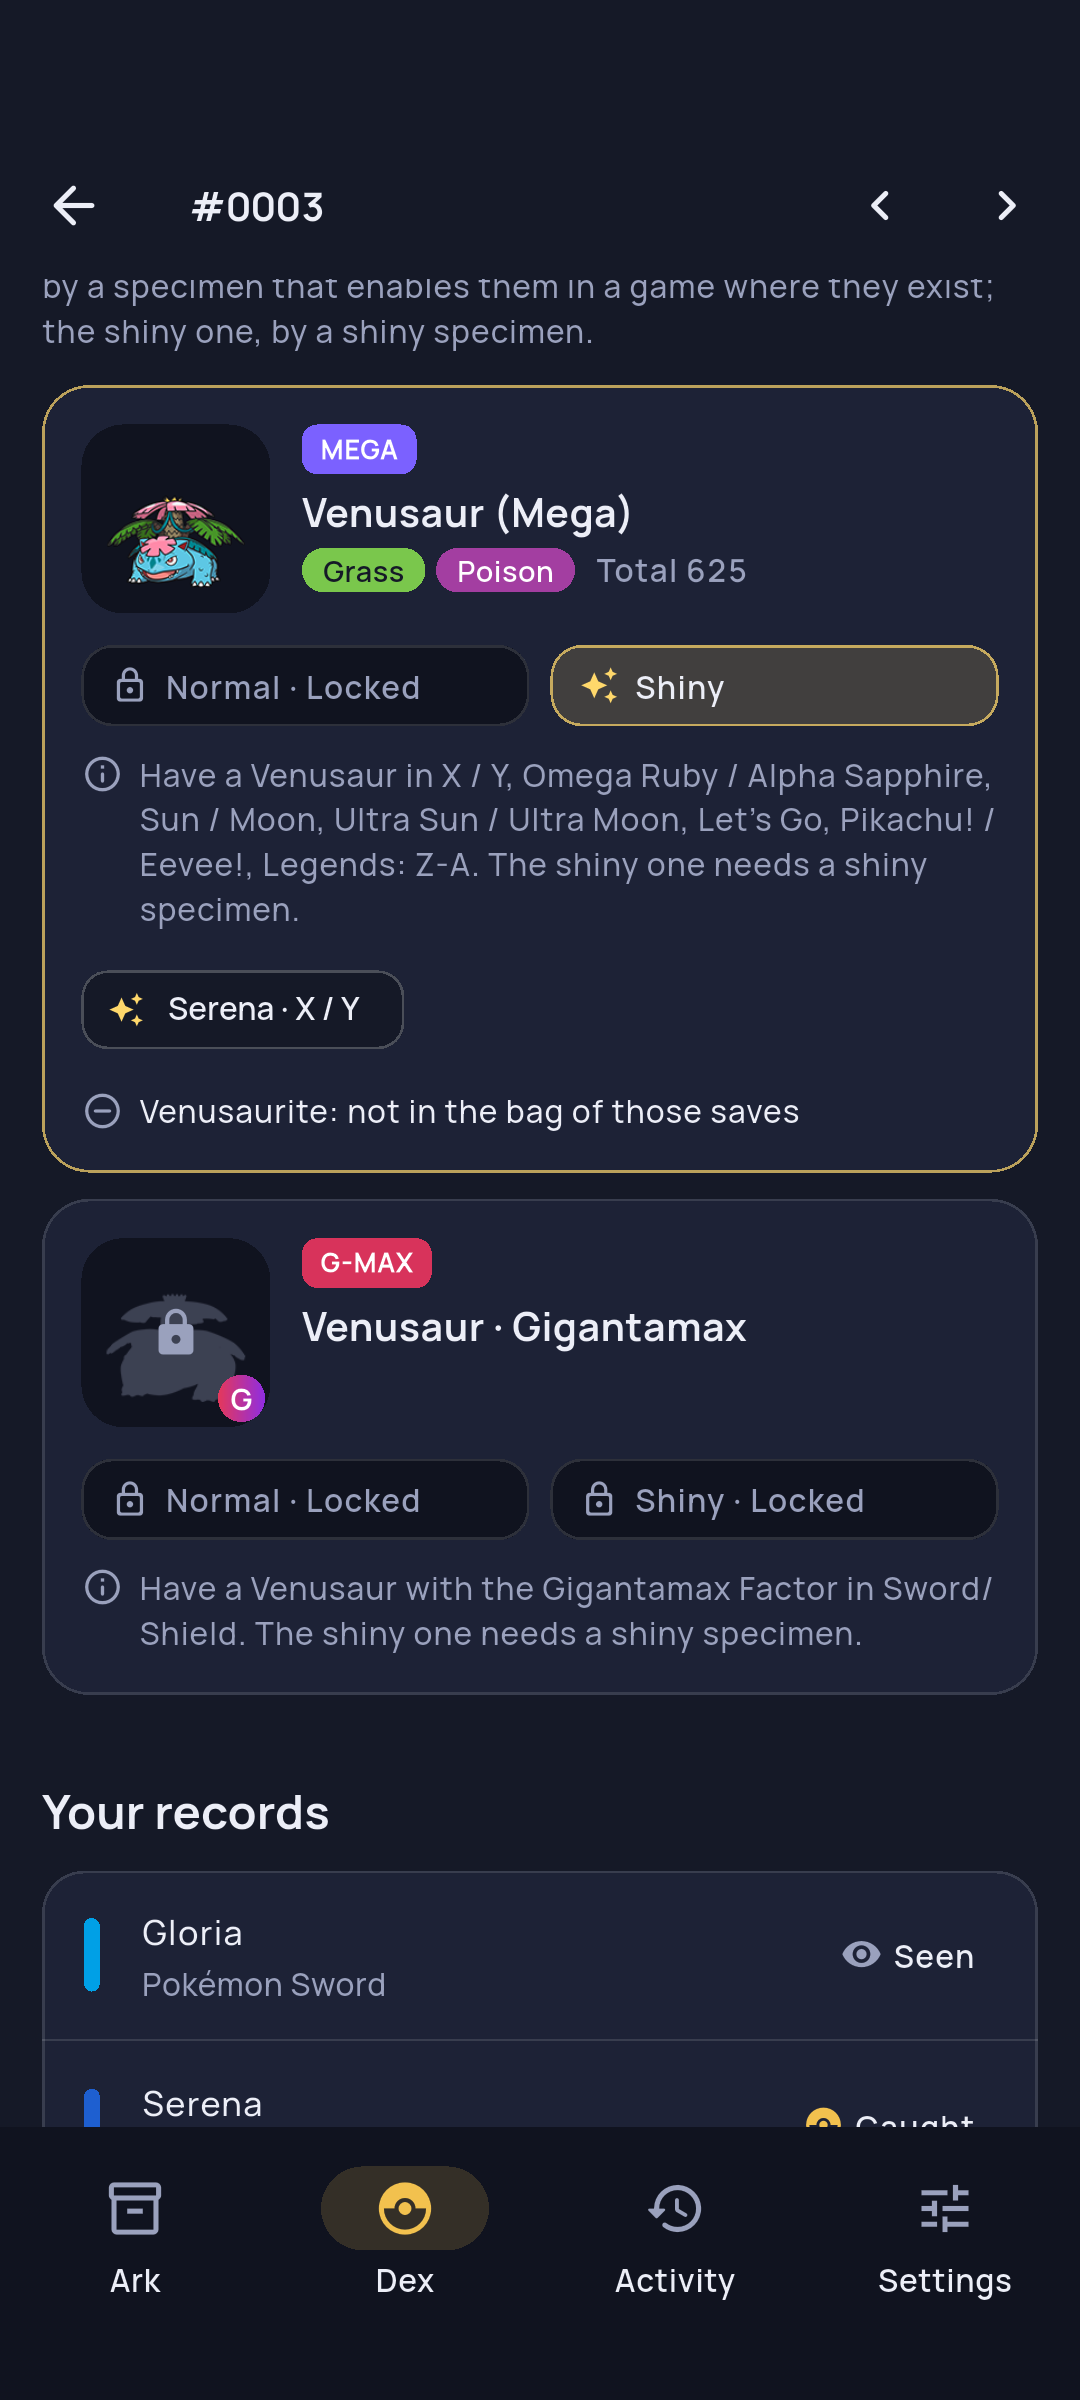
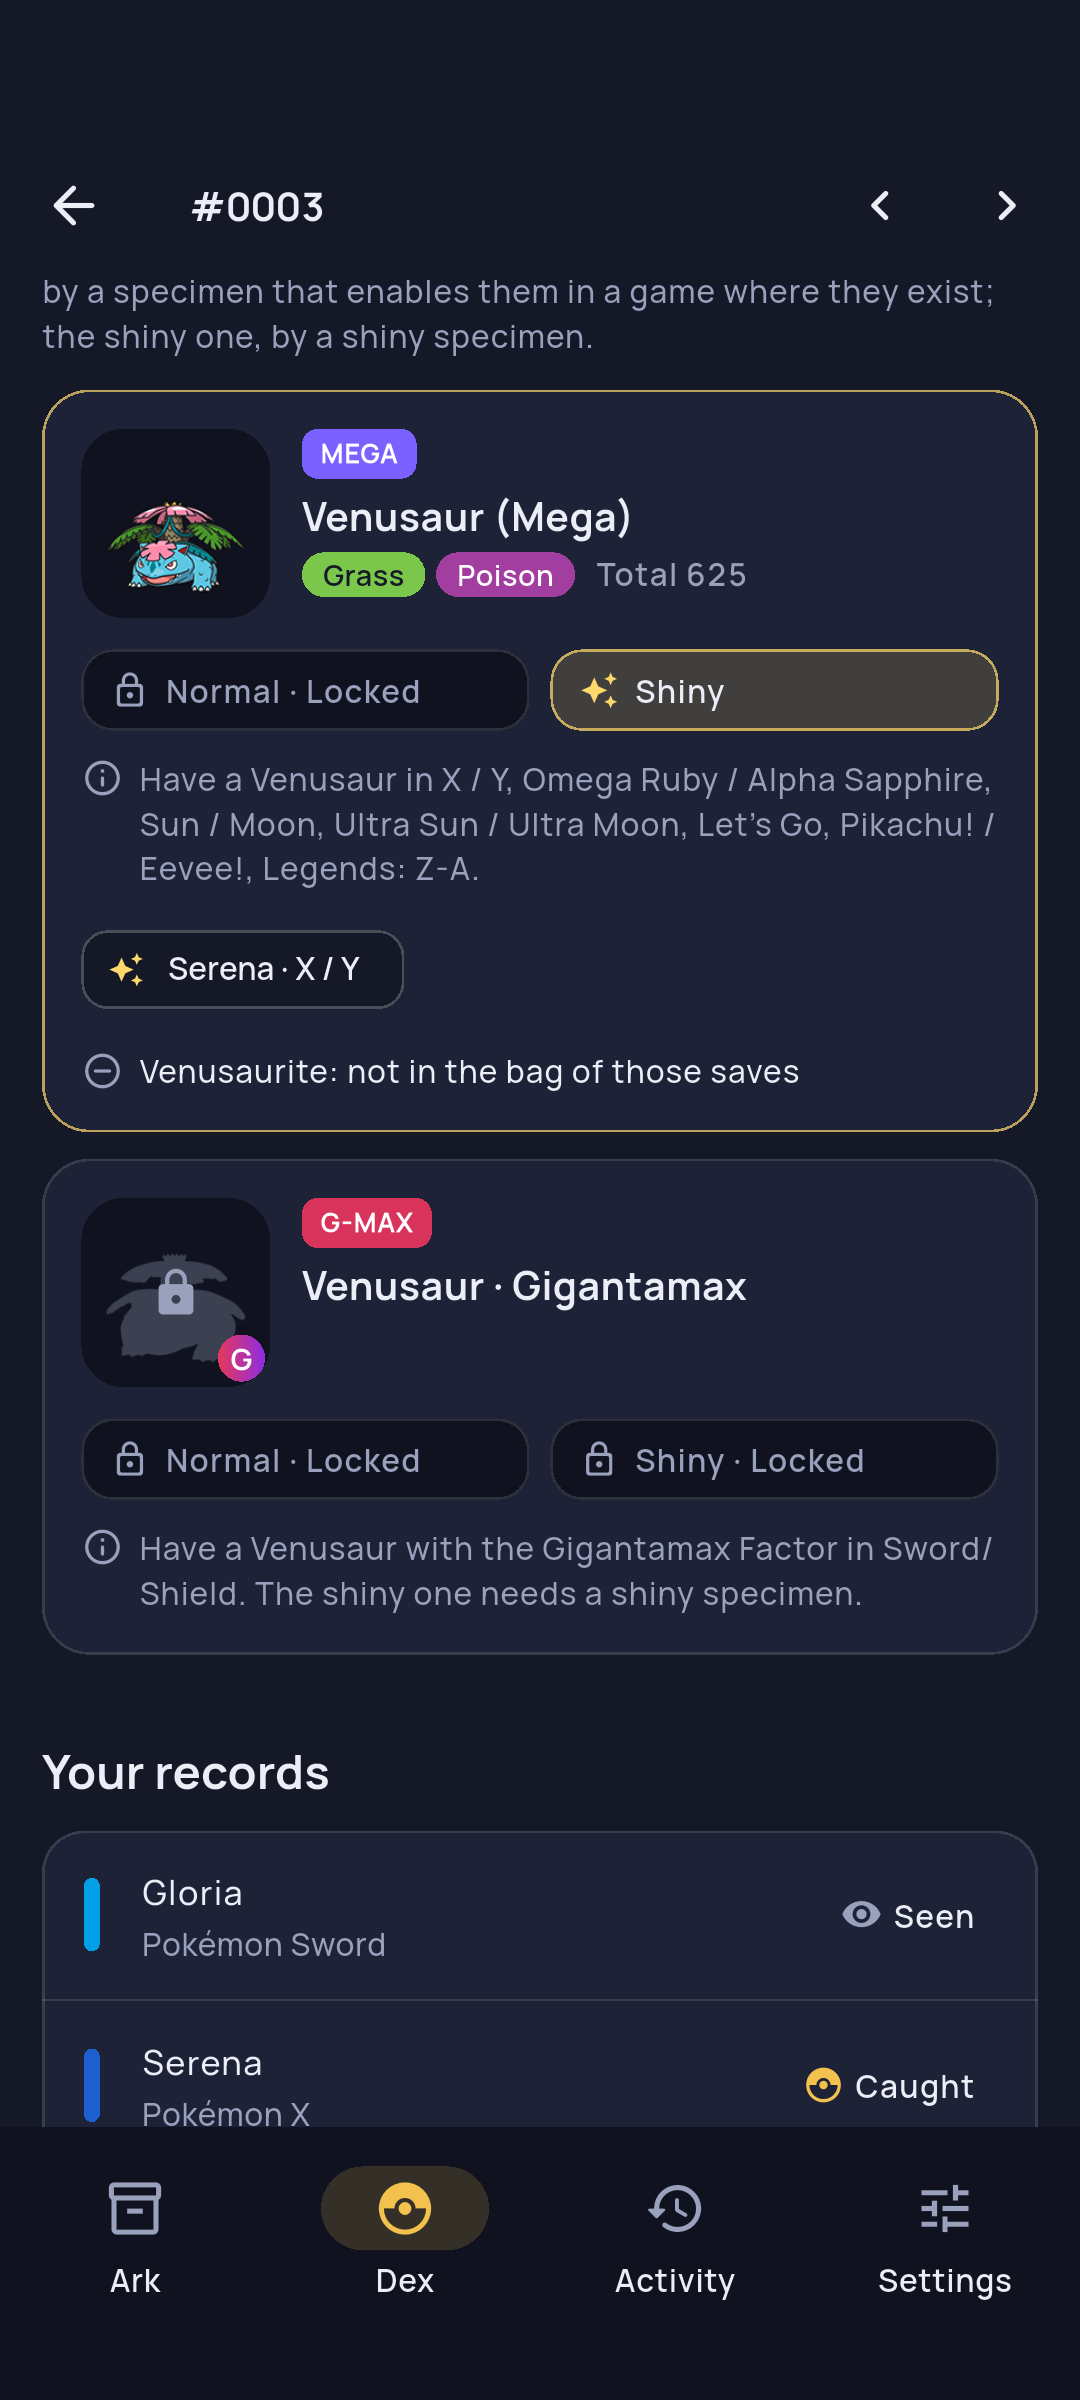
Dex: correct unlock hint when only the shiny variant is unlocked; iOS simulator screenshots

diff --git a/apps/pkarktools/lib/ui/dex/dex_special_forms.dart b/apps/pkarktools/lib/ui/dex/dex_special_forms.dart
@@ -124,7 +124,9 @@ class SpecialFormCard extends StatelessWidget {
             const SizedBox(width: 6),
             Expanded(
               child: Text(
-                unlock.normalUnlocked ? l10n.dexHowShiny : '${specialFormHowTo(context, f)} ${l10n.dexHowShiny}',
+                unlock.normalUnlocked
+                    ? l10n.dexHowShiny
+                    : (unlock.shinyUnlocked ? specialFormHowTo(context, f) : '${specialFormHowTo(context, f)} ${l10n.dexHowShiny}'),
                 style: context.text.bodySmall!.copyWith(color: tokens.muted),
               ),
             ),

diff --git a/apps/pkarktools/test/dex_ui_test.dart b/apps/pkarktools/test/dex_ui_test.dart
@@ -178,6 +178,7 @@ void main() {
     expect(find.byKey(const ValueKey('dex-variant-gmax:3:*-normal-off')), findsOneWidget);
     expect(find.textContaining('Have a Venusaur with the Gigantamax Factor in Sword/Shield.'), findsOneWidget);
     expect(find.textContaining('Have a Venusaur in X / Y'), findsOneWidget);
+    expect(find.textContaining('The shiny one needs a shiny specimen'), findsNWidgets(2), reason: 'ningún Venusaur');
 
     await t.tap(find.byKey(const ValueKey('dex-next')));
     await settle(t);

diff --git a/docs/desarrollo.md b/docs/desarrollo.md
@@ -235,6 +235,8 @@ del repo.
 | Android (emulador headless) | `flutter drive -d emulator-5554 --driver test_driver/screenshot_driver.dart --target integration_test/features_screenshots_test.dart --dart-define=SHOTS=android/v2` (emulador con `-no-window`; con otro dispositivo conectado, indica siempre `-d`) | `docs/screenshots/android/` |
 | Actualizar (escritorio, offscreen) | `flutter test test/update_screenshots_test.dart --dart-define=SHOTS_UPDATE=true` | `docs/screenshots/v2/mac_46_update.png` |
 | Actualizar (Android, release real) | `flutter drive -d emulator-5554 --driver test_driver/screenshot_driver.dart --target integration_test/update_test.dart` (simula la 0.1.0 frente al último release de GitHub: descarga el APK, lee las firmas con PackageManager y comprueba que con la clave debug **se bloquea**; luego el camino feliz con un lector de firmas falso). Con `--dart-define=UPDATE_STEP=permission` y sin «Instalar apps desconocidas» captura la explicación del permiso; sin esa define hay que concederlo (`adb -s emulator-5554 shell appops set dev.pkarktools.app REQUEST_INSTALL_PACKAGES allow`) en cuanto se instala | `docs/screenshots/android/v2_47…51_update_*` |
+| Dex (offscreen) | `flutter test test/dex_screenshots_test.dart --dart-define=SHOTS_DEX=true` — Dex sintética de `test/dex_demo.dart`, escritorio y teléfono | `docs/screenshots/dex/` |
+| Dex (emulador / simulador) | `flutter drive -d DISPOSITIVO --driver test_driver/screenshot_driver.dart --target integration_test/dex_screenshots_test.dart --dart-define=SHOTS=android/dex` (o `ios/dex`) | `docs/screenshots/{android,ios}/dex_*` |
 | iOS (simulador headless) | el mismo `features_screenshots_test.dart` con `--dart-define=SHOTS=ios/v2_pro` en un iPhone 16 Pro arrancado con `simctl boot` (con poco disco: compila antes con `xcodebuild -derivedDataPath .scratch/dd` y usa `--use-application-binary`) | `docs/screenshots/ios/` |
 
 Ejemplo del kit en español: `flutter test test/desktop_screenshots_test.dart

diff --git a/docs/usuario/dex.md b/docs/usuario/dex.md
@@ -156,3 +156,25 @@ alguna Pokédex la registra. Así se ve lo que de verdad te falta (filtro
   <img src="../screenshots/dex/07_phone_grid.png" width="32%" alt="Dex en el teléfono">
   <img src="../screenshots/dex/08_phone_species.png" width="32%" alt="Ficha en el teléfono">
 </p>
+
+En Android (emulador) y iPhone (simulador):
+
+<p>
+  <img src="../screenshots/android/dex_01_grid.png" width="24%" alt="Android: cuadrícula">
+  <img src="../screenshots/android/dex_03_special_forms.png" width="24%" alt="Android: formas especiales">
+  <img src="../screenshots/ios/dex_04_locked_forms.png" width="24%" alt="iPhone: formas bloqueadas">
+  <img src="../screenshots/ios/dex_05_progress.png" width="24%" alt="iPhone: progreso">
+</p>
+
+<details><summary>Más capturas</summary>
+<p>
+  <img src="../screenshots/android/dex_02_species.png" width="24%" alt="Android: ficha">
+  <img src="../screenshots/android/dex_04_locked_forms.png" width="24%" alt="Android: formas bloqueadas">
+  <img src="../screenshots/android/dex_05_progress.png" width="24%" alt="Android: progreso">
+  <img src="../screenshots/android/dex_06_filter_shiny.png" width="24%" alt="Android: filtro variocolor">
+  <img src="../screenshots/ios/dex_01_grid.png" width="24%" alt="iPhone: cuadrícula">
+  <img src="../screenshots/ios/dex_02_species.png" width="24%" alt="iPhone: ficha">
+  <img src="../screenshots/ios/dex_03_special_forms.png" width="24%" alt="iPhone: formas especiales">
+  <img src="../screenshots/ios/dex_06_filter_shiny.png" width="24%" alt="iPhone: filtro variocolor">
+</p>
+</details>
